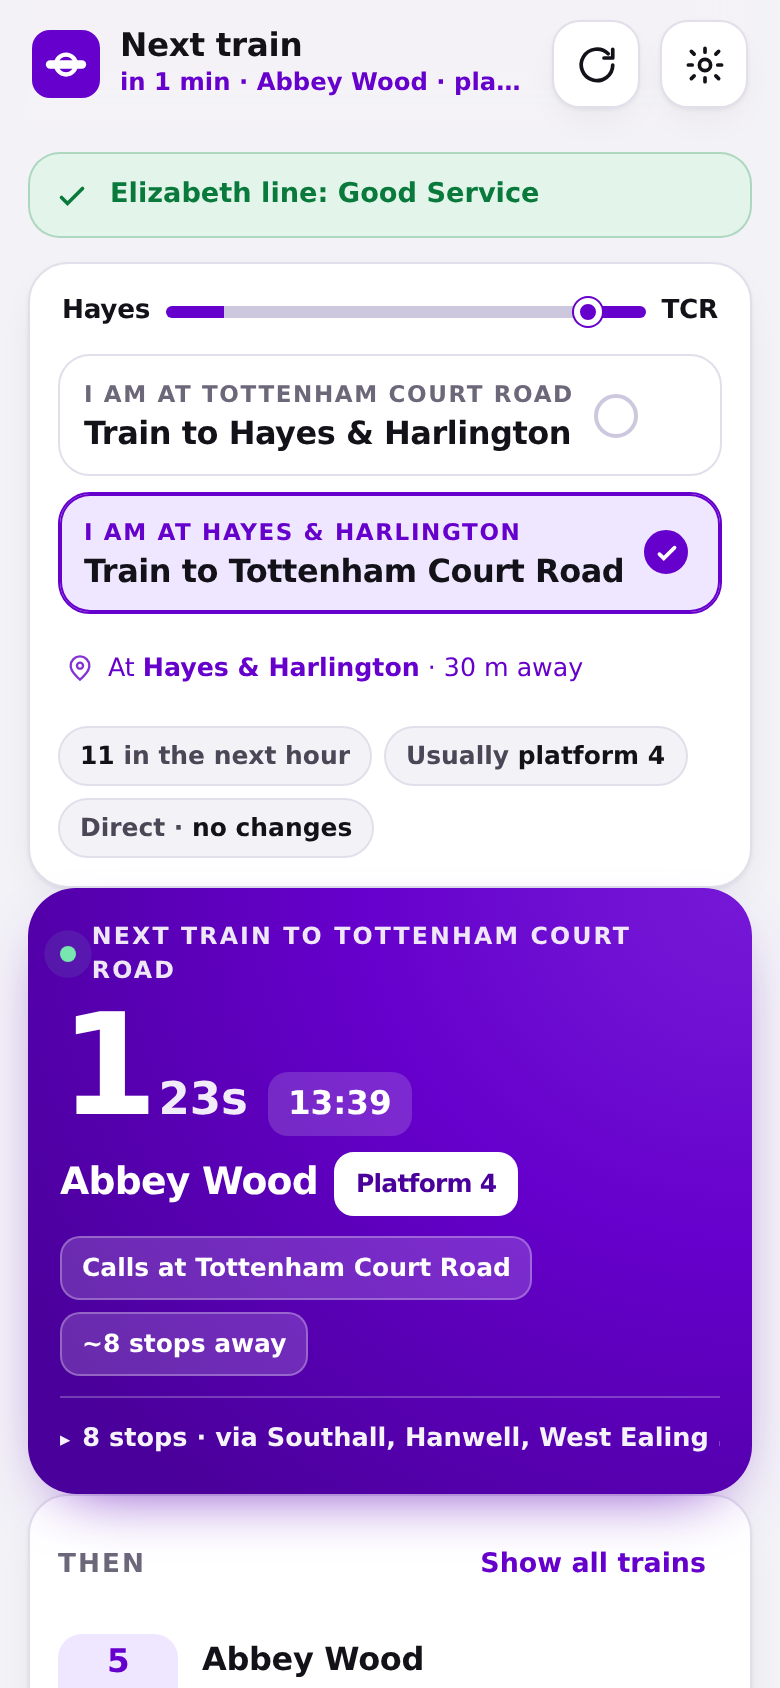
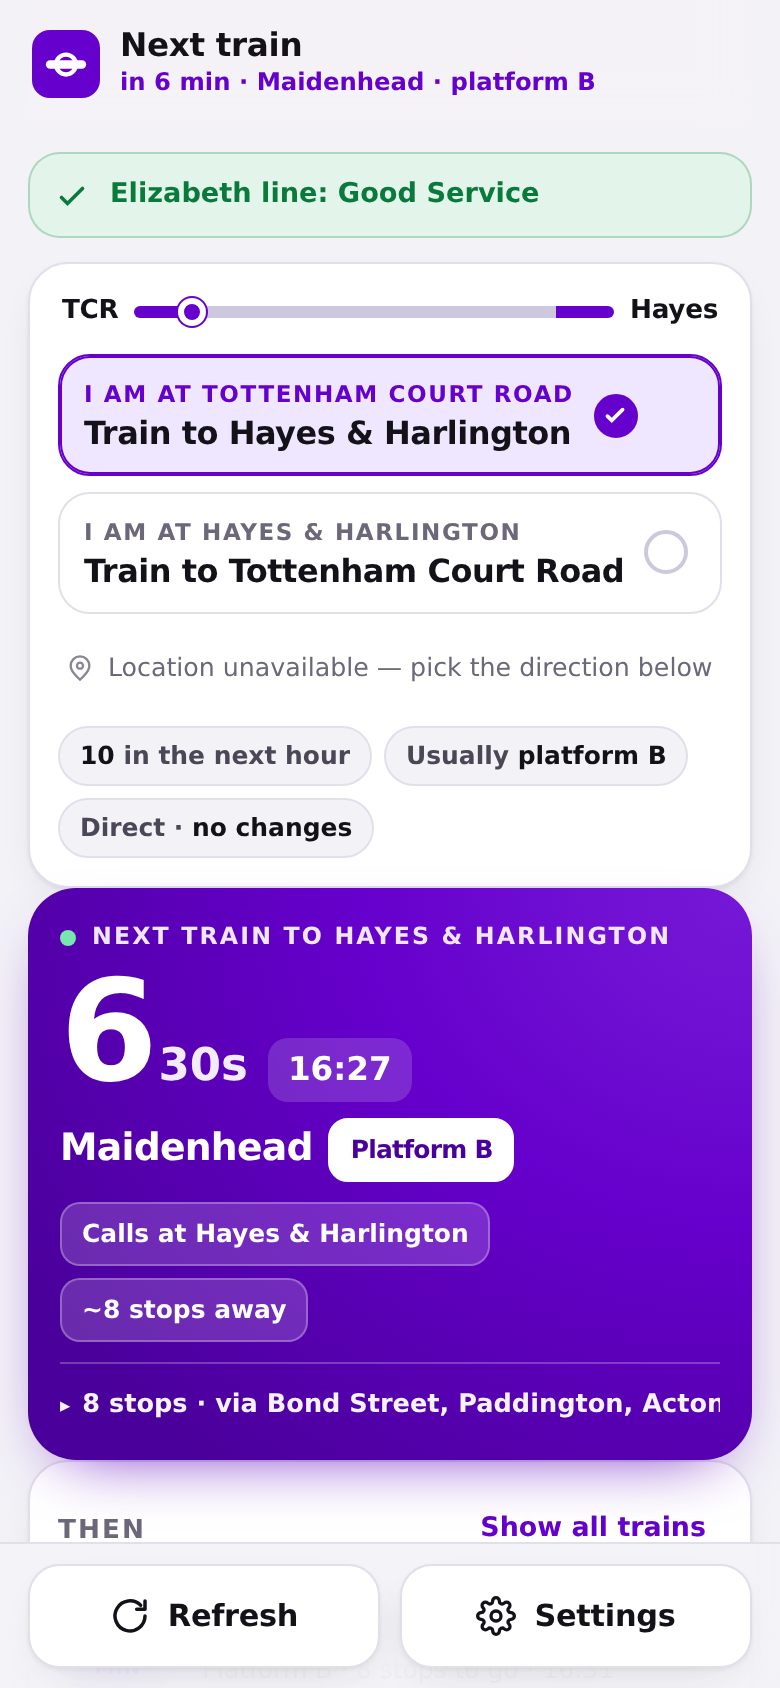
1.1.0: one-handed layout, pull to refresh, stable debug key
- Refresh and Settings move to a bottom bar; the top bar is just the
  title, and appearance (light/dark/system) stays a setting
- pull to refresh: grab the board at the top, drag down, let go
- builds sign with a committed debug key so CI releases install over
  each other without an uninstall
- versionCode 2, versionName 1.1.0

diff --git a/web/index.html b/web/index.html
@@ -43,7 +43,27 @@
   .sr-only{position:absolute!important;width:1px;height:1px;padding:0;margin:-1px;overflow:hidden;clip:rect(0 0 0 0);white-space:nowrap;border:0}
   :focus-visible{outline:3px solid color-mix(in srgb, var(--el) 55%, transparent); outline-offset:2px; border-radius:8px}
 
-  .app{width:100%; max-width:540px; padding:0 14px calc(26px + env(safe-area-inset-bottom)); display:flex; flex-direction:column; gap:12px}
+  .app{width:100%; max-width:540px; padding:0 14px calc(92px + env(safe-area-inset-bottom)); display:flex; flex-direction:column; gap:12px;
+       transition:transform .25s cubic-bezier(.2,.8,.3,1.15)}
+  .app.is-pulling{transition:none}
+
+  /* ---------- bottom dock: the two things you tap, one thumb's reach ---------- */
+  .dock{position:fixed;left:0;right:0;bottom:0;z-index:35;border-top:1px solid var(--line);
+        background:color-mix(in srgb, var(--bg) 88%, transparent);backdrop-filter:blur(12px) saturate(1.2)}
+  .dock-in{width:100%;max-width:540px;margin:0 auto;display:flex;gap:10px;padding:10px 14px calc(10px + env(safe-area-inset-bottom))}
+  .dock-btn{flex:1 1 0;min-height:52px;display:flex;align-items:center;justify-content:center;gap:9px;
+            border:1px solid var(--line);background:var(--card);border-radius:16px;box-shadow:var(--shadow);
+            font-weight:700;font-size:.95rem;letter-spacing:-.01em;cursor:pointer}
+  .dock-btn svg{width:20px;height:20px;flex:0 0 auto}
+  .dock-btn:active{transform:scale(.98)}
+  .dock-btn.spin svg{animation:spin .8s linear infinite}
+
+  /* pull-to-refresh indicator, parked where the old header buttons used to sit */
+  .pull-ind{width:44px;height:44px;flex:0 0 auto;border-radius:14px;display:grid;place-items:center;color:var(--el);
+            opacity:0;transform:scale(.55);transition:opacity .18s ease,transform .18s ease;pointer-events:none}
+  .pull-ind svg{width:22px;height:22px}
+  .pull-ind.dragging,.pull-ind.loading{opacity:1;transform:scale(1)}
+  .pull-ind.loading svg{animation:spin .8s linear infinite}
 
   /* ---------- top bar ---------- */
   .bar{
@@ -260,12 +280,9 @@
       <strong>Next train</strong>
       <span id="barSub">Elizabeth line · live departures</span>
     </div>
-    <button class="icon-btn" id="btnRefresh" title="Refresh" aria-label="Refresh departures">
+    <span class="pull-ind" id="pullInd" aria-hidden="true">
       <svg viewBox="0 0 24 24" fill="none" stroke="currentColor" stroke-width="2.1" stroke-linecap="round" stroke-linejoin="round"><path d="M21 12a9 9 0 1 1-2.6-6.4"/><path d="M21 3v5h-5"/></svg>
-    </button>
-    <button class="icon-btn" id="btnSettings" title="Settings" aria-label="Settings">
-      <svg viewBox="0 0 24 24" fill="none" stroke="currentColor" stroke-width="2.1" stroke-linecap="round"><circle cx="12" cy="12" r="3.2"/><path d="M12 2.5v2.2M12 19.3v2.2M4.2 4.2l1.6 1.6M18.2 18.2l1.6 1.6M2.5 12h2.2M19.3 12h2.2M4.2 19.8l1.6-1.6M18.2 5.8l1.6-1.6"/></svg>
-    </button>
+    </span>
   </header>
 
   <div id="bannerSlot"></div>
@@ -325,6 +342,17 @@
 
   <p class="sr-only" role="status" aria-live="polite" id="announce"></p>
 </div>
+
+  <nav class="dock" aria-label="Quick actions">
+    <div class="dock-in">
+      <button class="dock-btn" id="btnRefresh" aria-label="Refresh departures">
+        <svg viewBox="0 0 24 24" fill="none" stroke="currentColor" stroke-width="2.1" stroke-linecap="round" stroke-linejoin="round"><path d="M21 12a9 9 0 1 1-2.6-6.4"/><path d="M21 3v5h-5"/></svg><span>Refresh</span>
+      </button>
+      <button class="dock-btn" id="btnSettings" aria-label="Open settings">
+        <svg viewBox="0 0 24 24" fill="none" stroke="currentColor" stroke-width="2" stroke-linecap="round" stroke-linejoin="round"><circle cx="12" cy="12" r="3"/><path d="M19.4 15a1.7 1.7 0 0 0 .34 1.87l.06.06a2 2 0 1 1-2.83 2.83l-.06-.06a1.7 1.7 0 0 0-1.87-.34 1.7 1.7 0 0 0-1 1.55V21a2 2 0 1 1-4 0v-.09a1.7 1.7 0 0 0-1-1.55 1.7 1.7 0 0 0-1.87.34l-.06.06a2 2 0 1 1-2.83-2.83l.06-.06a1.7 1.7 0 0 0 .34-1.87 1.7 1.7 0 0 0-1.55-1H3a2 2 0 1 1 0-4h.09a1.7 1.7 0 0 0 1.55-1 1.7 1.7 0 0 0-.34-1.87l-.06-.06a2 2 0 1 1 2.83-2.83l.06.06a1.7 1.7 0 0 0 1.87.34h0a1.7 1.7 0 0 0 1-1.55V3a2 2 0 1 1 4 0v.09a1.7 1.7 0 0 0 1 1.55 1.7 1.7 0 0 0 1.87-.34l.06-.06a2 2 0 1 1 2.83 2.83l-.06.06a1.7 1.7 0 0 0-.34 1.87v0a1.7 1.7 0 0 0 1.55 1H21a2 2 0 1 1 0 4h-.09a1.7 1.7 0 0 0-1.55 1z"/></svg><span>Settings</span>
+      </button>
+    </div>
+  </nav>
 
 <div id="scrim" class="scrim" hidden></div>
 <aside id="sheet" class="sheet" hidden role="dialog" aria-modal="true" aria-labelledby="sheetTitle">
@@ -1291,6 +1319,7 @@ async function refresh(manual){
     if(geo.pos && (geo.verdict === null || geo.verdict === "unknown")){
       maybeAutoRoute(nearestStation()); renderGeo(); syncSheet();
     }
+    if(PULL.held){ PULL.held = false; setPull(0); }
     if(manual) { try{ navigator.vibrate && navigator.vibrate(15); }catch(e){} }
   }
   // empty list but station resolved: the id may be a parent id with no predictions
@@ -1314,6 +1343,71 @@ document.addEventListener("visibilitychange", () => {
   tick();
   if(settings.auto && (!state.nextRefreshAt || Date.now() - state.fetchedAt > settings.refreshMs)) refresh();
 });
+
+/* ============================================================
+   Pull to refresh
+   Grab the board at the top and drag down; let go past the mark
+   and it refetches.  The indicator is the roundel bar's old
+   corner, so nothing moves around.
+   ============================================================ */
+const PULL_MAX = 110, PULL_ARM = 52;
+const PULL = { active:false, mode:"none", id:-1, x:0, y:0, dy:0, held:false };
+
+function setPull(dy, opts){
+  opts = opts || {};
+  const app = document.querySelector(".app"), ind = $("pullInd");
+  app.style.transform = dy ? "translate3d(0, " + dy + "px, 0)" : "";
+  app.classList.toggle("is-pulling", !!opts.dragging);
+  ind.classList.toggle("dragging", !!opts.dragging);
+  ind.classList.toggle("loading", !!opts.loading);
+  if(!opts.loading && dy > 0)
+    ind.querySelector("svg").style.transform = "rotate(" + Math.round(dy / PULL_MAX * 180) + "deg)";
+}
+
+function pullStart(e){
+  if(e.touches.length !== 1 || state.loading || PULL.held) return;
+  if(!$("sheet").hidden || (e.target.closest && e.target.closest("#sheet"))) return;
+  if(window.scrollY > 6) return;
+  const t = e.touches[0];
+  PULL.active = true; PULL.mode = "maybe";
+  PULL.id = t.identifier; PULL.x = t.clientX; PULL.y = t.clientY; PULL.dy = 0;
+}
+
+function pullMove(e){
+  if(!PULL.active) return;
+  let t = null;
+  for(const x of e.touches) if(x.identifier === PULL.id){ t = x; break; }
+  if(!t) return;
+  const dx = t.clientX - PULL.x, dy = t.clientY - PULL.y;
+  if(PULL.mode === "maybe"){
+    if(dy > 8 && dy > Math.abs(dx)) PULL.mode = "pull";
+    else if(dy < -8 || Math.abs(dx) > Math.abs(dy)){ PULL.active = false; setPull(0); return; }
+    else return;
+  }
+  e.preventDefault();
+  PULL.dy = Math.min(PULL_MAX, Math.max(0, dy * 0.55));
+  setPull(PULL.dy, { dragging: true });
+}
+
+function pullEnd(e){
+  if(!PULL.active) return;
+  let alive = false;
+  for(const x of (e.changedTouches || [])) if(x.identifier === PULL.id) alive = true;
+  PULL.active = false;
+  if(!alive || PULL.mode !== "pull"){ setPull(0); return; }
+  if(PULL.dy >= PULL_ARM){
+    PULL.held = true;
+    setPull(PULL_ARM, { loading: true });
+    refresh(true);
+  }else{
+    setPull(0);
+  }
+}
+
+document.addEventListener("touchstart", pullStart, { passive: true });
+document.addEventListener("touchmove", pullMove,  { passive: false });
+document.addEventListener("touchend",   pullEnd,  { passive: true });
+document.addEventListener("touchcancel",pullEnd,  { passive: true });
 
 /* ============================================================
    Wiring

diff --git a/README.md b/README.md
@@ -7,7 +7,8 @@ you are standing at.
 
 | Opened on the platform at Hayes & Harlington | It explains itself in Settings |
 |---|---|
-| ![The board, opened at Hayes & Harlington](docs/screenshots/at-hayes.png) | ![Settings, with the location section open](docs/screenshots/settings.png) |
+| ![The board, opened at Hayes & Harlington](docs/screenshots/at-hayes.png) | ![Pulling down to refresh](docs/screenshots/pulling.png) |
+| ![Dark appearance](docs/screenshots/dark.png) | ![Settings, with the location section open](docs/screenshots/settings.png) |
 
 ## Install
 
@@ -36,7 +37,11 @@ id is `com.localtools.olicommuter`.
   live if the signal drops.
 - **Alerts** vibrate — and notify, if you allow it — when the next train is within your warning
   time.
-- **Dark, light or automatic**, big tap targets, works on a small phone with one thumb.
+- **One-handed by design.** Refresh and Settings sit in a bottom bar where your thumb
+  already is; the top bar is just the title. Light, dark or match-the-system appearance is
+  a setting in Settings, not a button to hunt for.
+- **Pull to refresh.** Grab the board at the top and drag down, like every other app on
+  your phone.
 
 ## What the location is used for
 

diff --git a/CHANGELOG.md b/CHANGELOG.md
@@ -3,6 +3,17 @@
 Worth-noting changes only. The version in `package.json` and `versionName` in
 `android/app/build.gradle` move together; tags are `v1.2.3`.
 
+## 1.1.0 — 2026-11-15
+
+- Pull to refresh: grab the board at the top and drag down; let go and
+  it refetches
+- Refresh and Settings now live in a bottom bar where one thumb can
+  reach them; the top bar is just the title
+- Appearance (light / dark / match the system) is in Settings, not in
+  the top bar
+- Builds now sign with a fixed debug key, so this update installs
+  directly over 1.0.0
+
 ## 1.0.0 — 2026-11-15
 
 First release.
